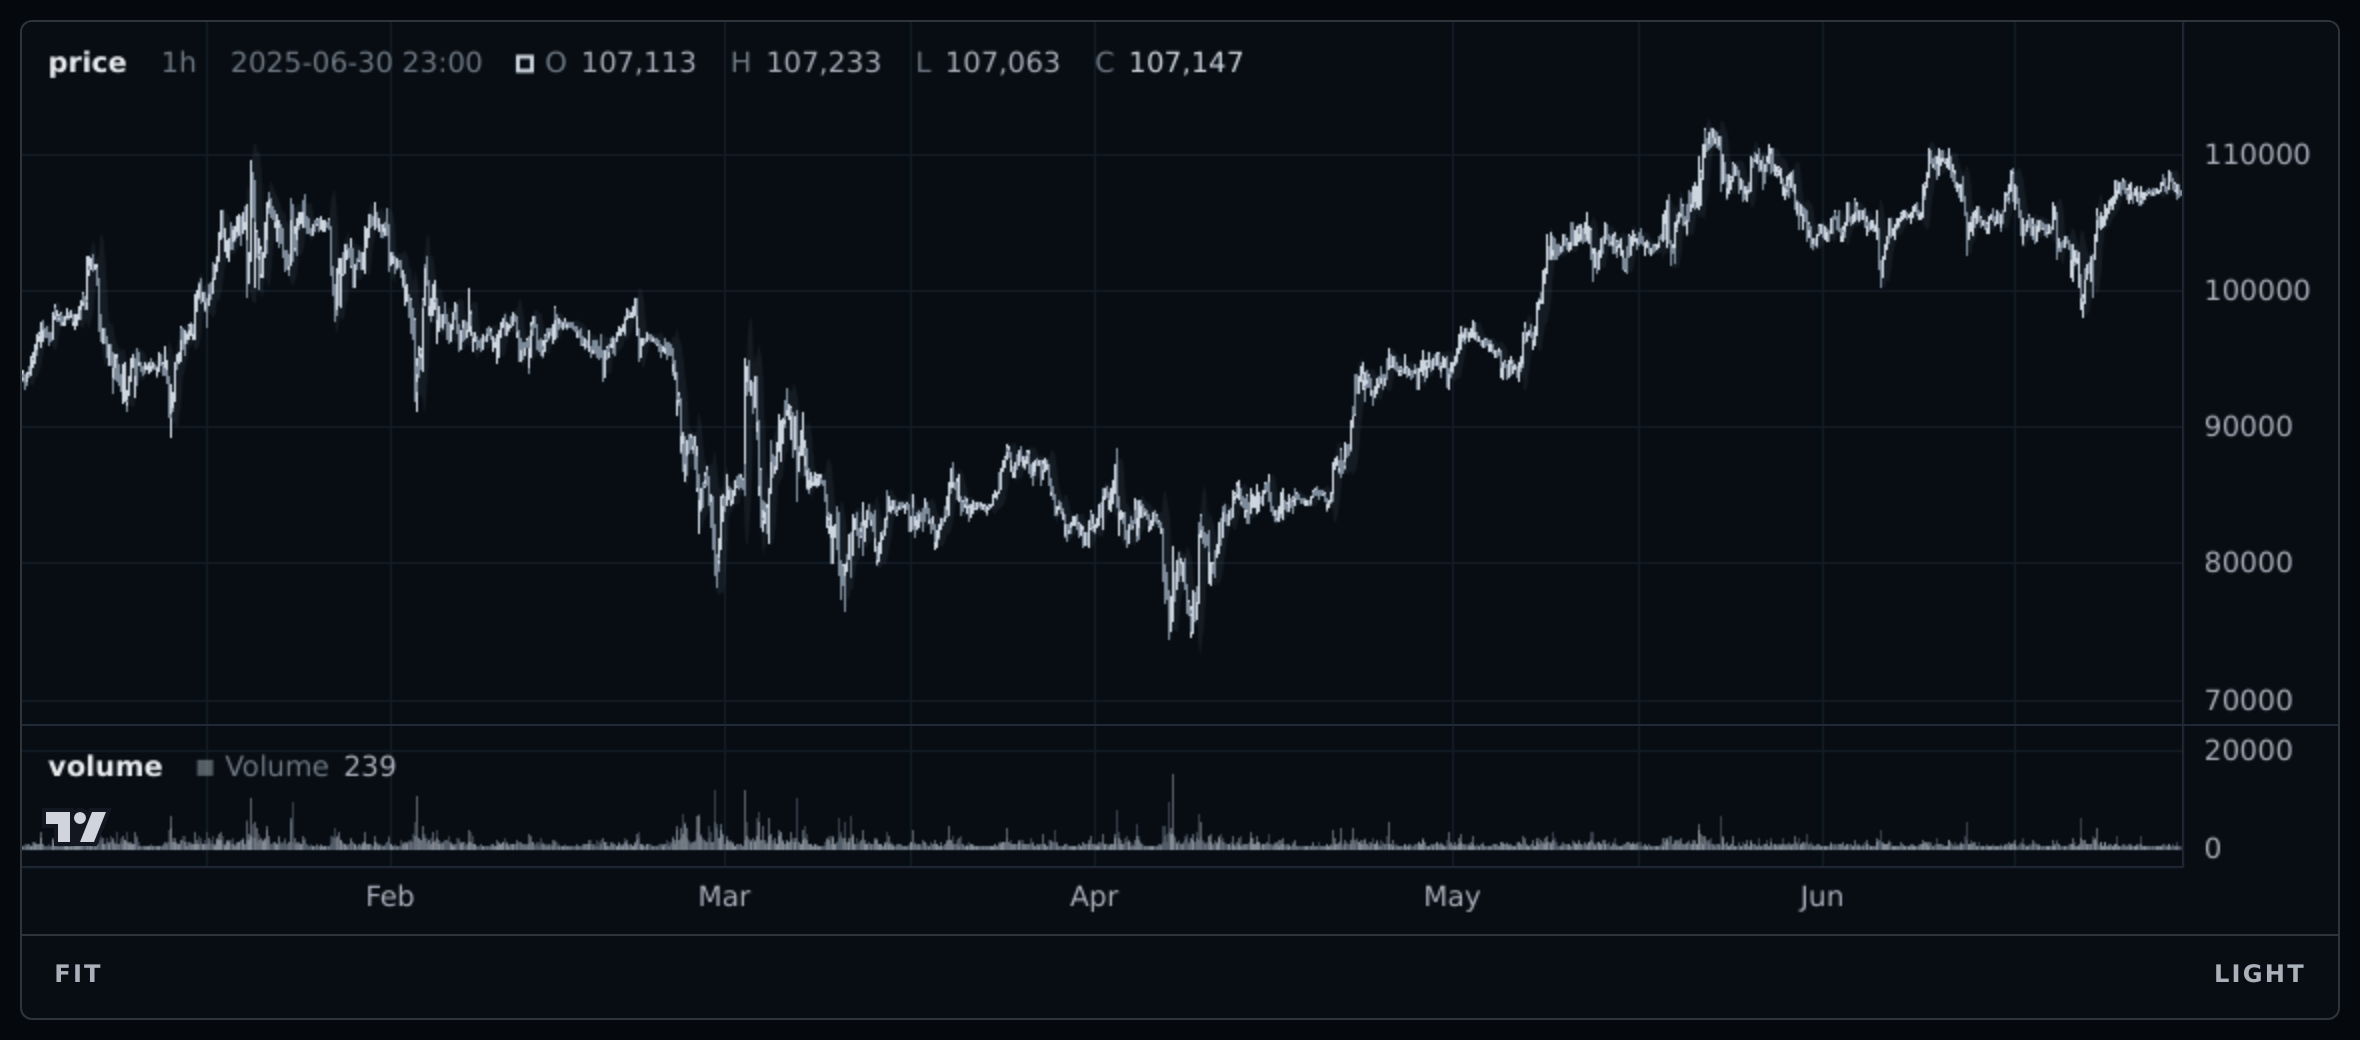
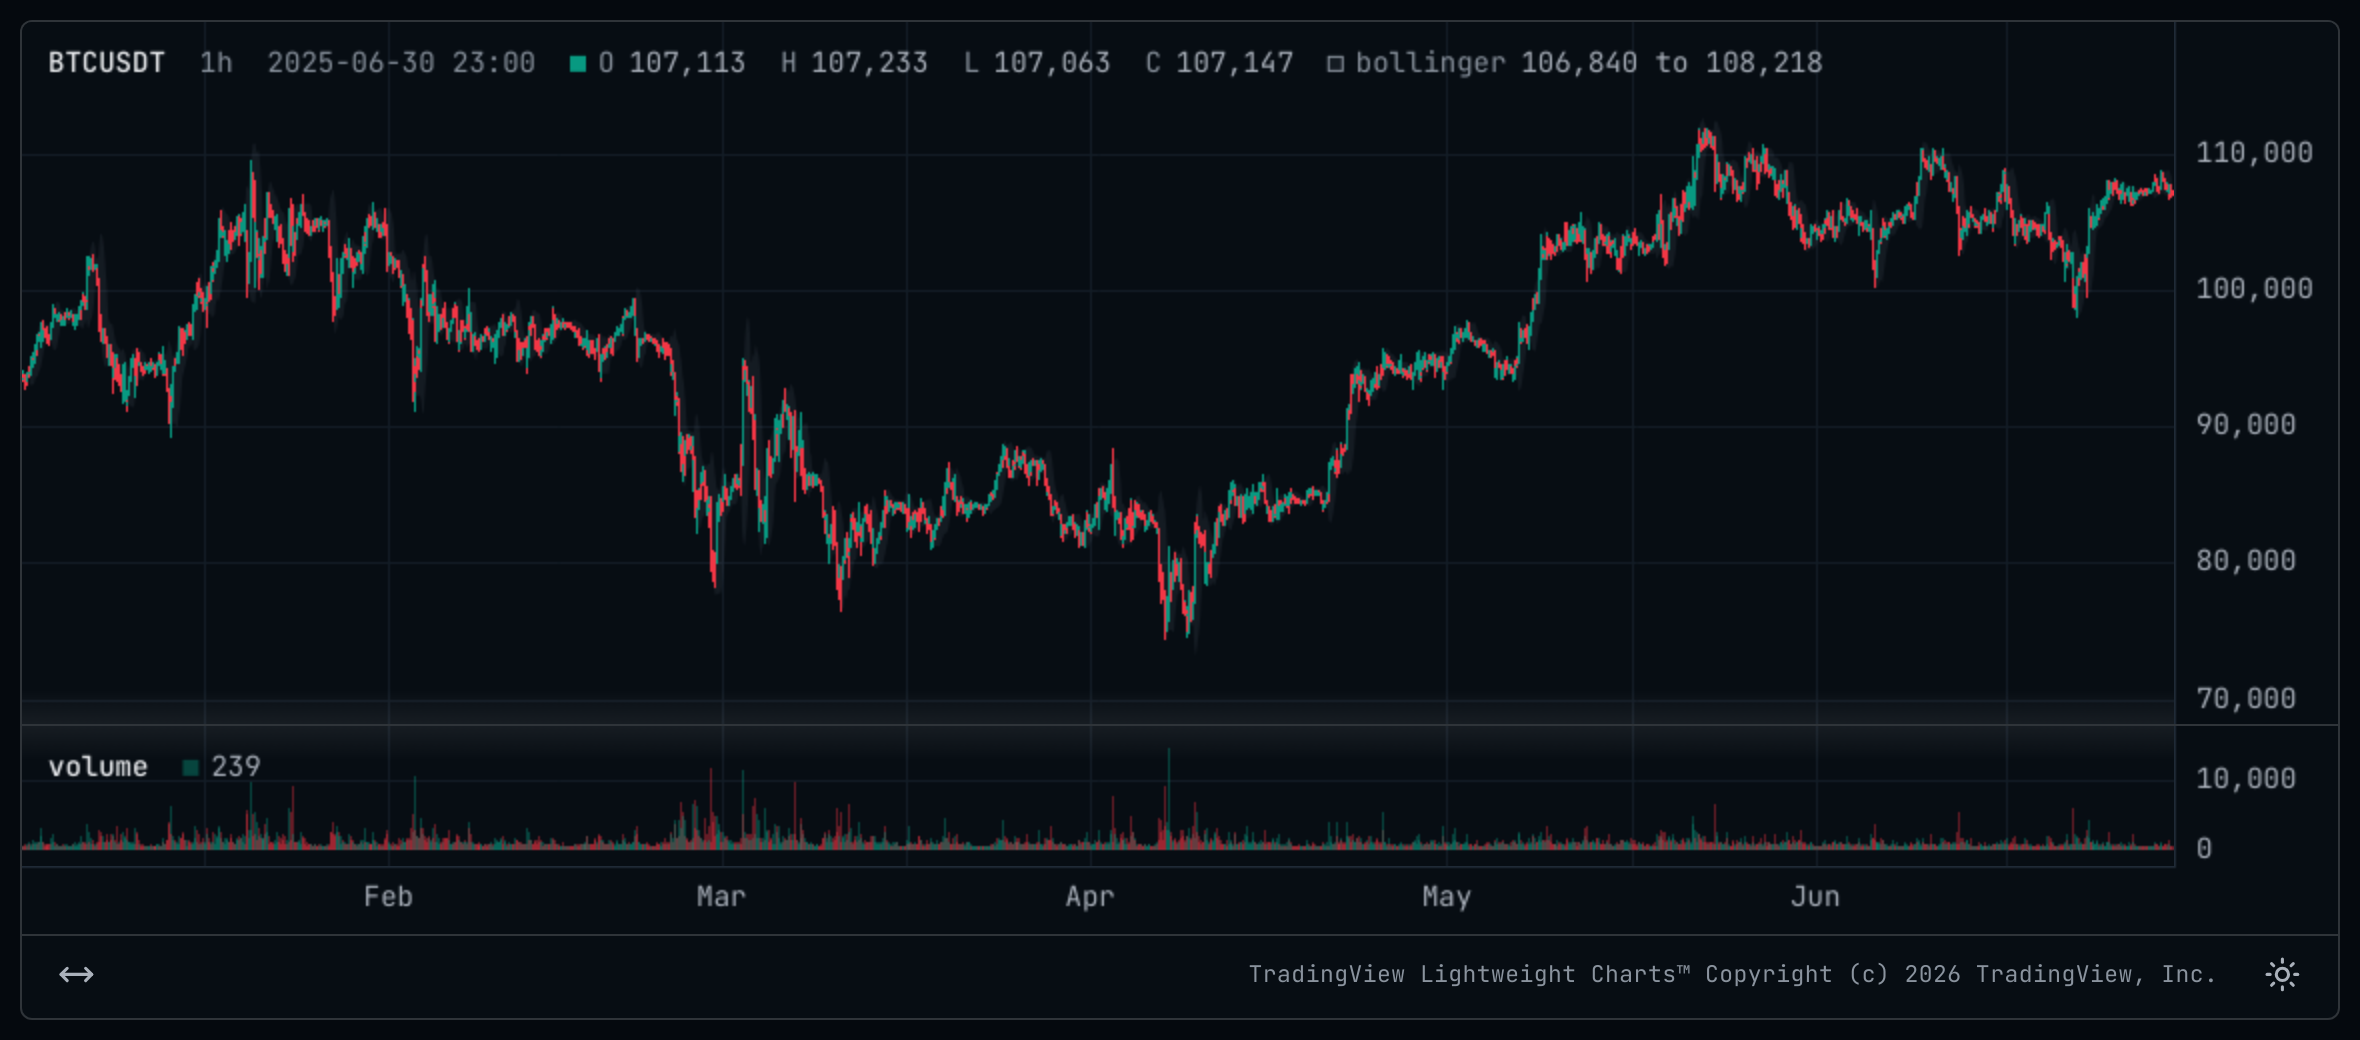
docs(charts): redraw the chart images in the dark scheme and JetBrains Mono

diff --git a/dev/charts/shoot.py b/dev/charts/shoot.py
@@ -48,14 +48,17 @@ def main():
             shot   = shots[name]
             width  = shot["width"]
             height = shot["height"] + shot.get("below", 0)
+            # a chart opens on its reader's scheme, and these pictures are of the dark
             page   = browser.new_page(
                 viewport={"width": width, "height": height},
                 device_scale_factor=SCALE,
+                color_scheme="dark",
             )
 
             page.goto((CHARTS / f"{name}.html").as_uri())
             page.wait_for_timeout(SETTLE_MS)
-            if shot.get("open"):
+            # a table of the caller's opens the panel by itself
+            if shot.get("open") and page.locator("#tablePanel").is_hidden():
                 page.click("#tbl")
                 # opening the panel shrinks the plot above it, so the row that
                 # slides up under the cursor comes out of the shot wearing its
